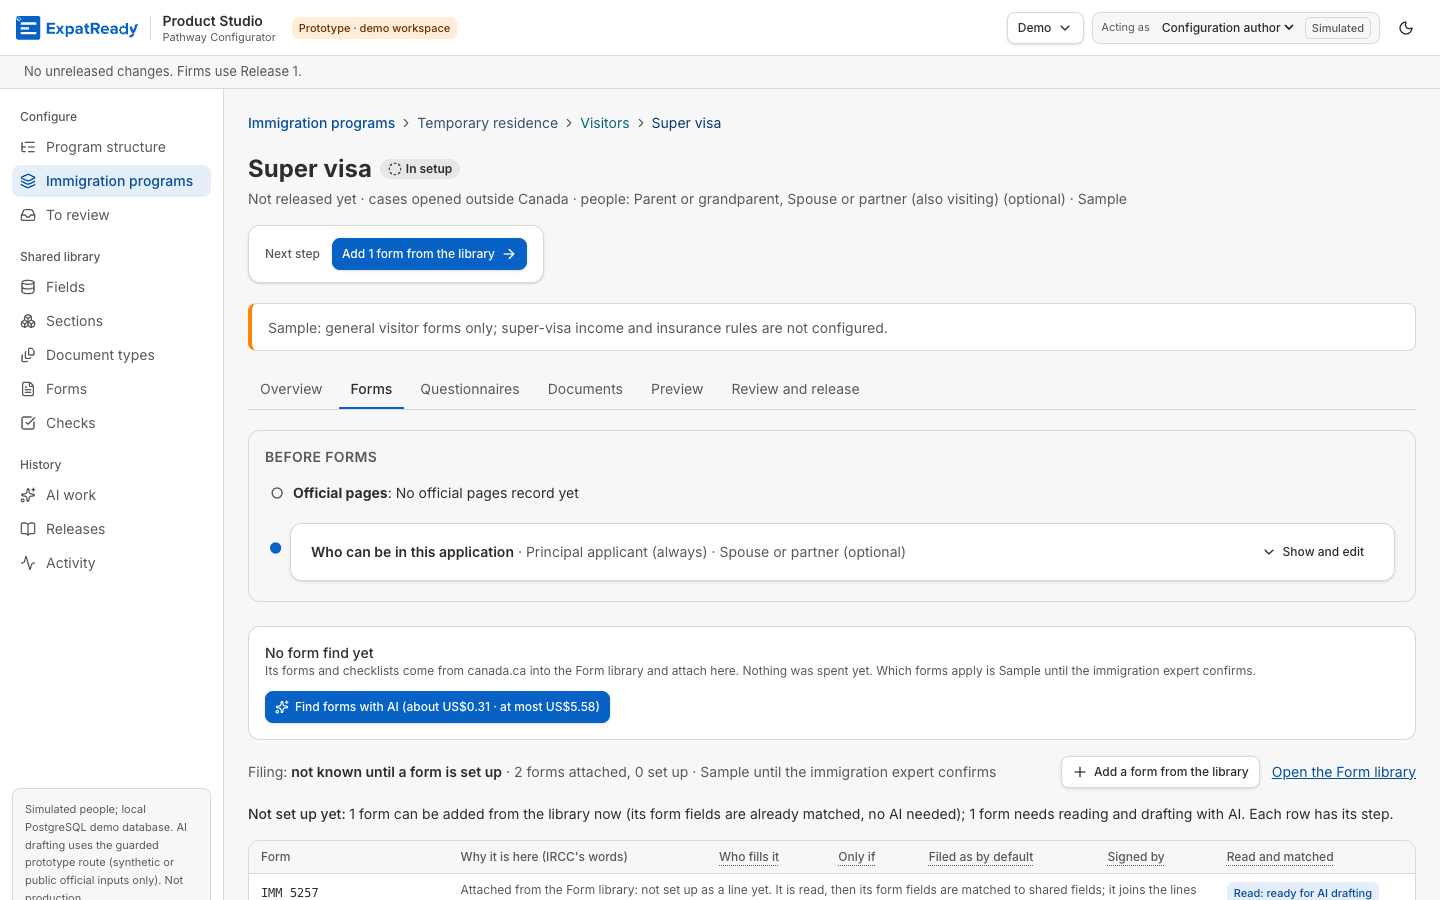
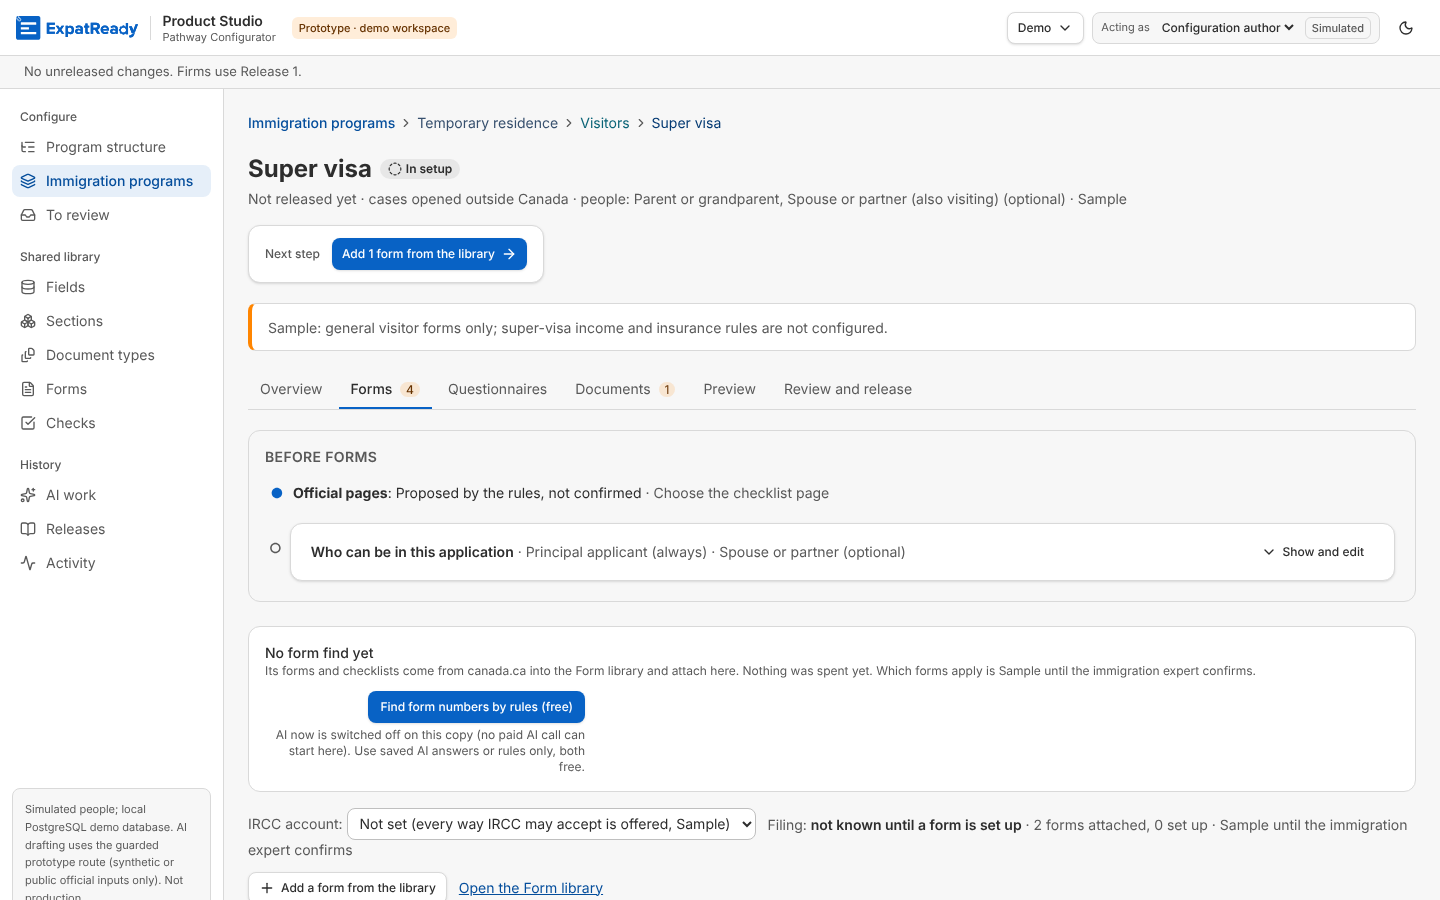
screens F1 X1 (setup checklist slice C3): the Overview's setup strip replaces 'Missing before firms can use it'; the people card leaves the Overview (P-161 (2)); one itemHref for the engine's next.href and the strip; new check_x1_overview_strip_browser; old-Overview steps moved to the strip
Claude-Session: https://claude.ai/code/session_01Ln6TiTg8pQKbvdPZLnXyEe

diff --git a/ai-workers/problem-1-pathway-setup-and-form-filling/prototype/studio/web/src/pages/workspace/overview.tsx b/ai-workers/problem-1-pathway-setup-and-form-filling/prototype/studio/web/src/pages/workspace/overview.tsx
@@ -1,39 +1,28 @@
 // S5 Overview (P-118 Q5, walkthrough v2 S5): it only reports. Status and next step sit in the page header; here the
-// "Missing before firms can use it" list (each line links to the tab where it is fixed), four counts in words, a
-// read-only summary of who can be in the application, and released versions in one line. No add or edit control.
+// setup strip (X1 slice C3: five steps, each with its open items as links to where they are done), four counts in
+// words, and released versions in one line. Who can be in the application sits in "Before forms" on Forms only
+// (P-161 (2)). No add or edit control.
 import * as React from "react";
 import { Link } from "react-router-dom";
-import { sharedStep, type CombinationSummary, type CombinationView, type MissingItem } from "../../../../contracts/programs";
+import { type CombinationSummary, type CombinationView } from "../../../../contracts/programs";
+import { SetupStrip } from "@/components/setup-strip";
 import { Stat } from "@/components/ui/controls";
 import { fmtWhen } from "@/components/status";
-import { cn } from "@/lib/utils";
-
-/** The tab where each missing item is fixed (BR-2). */
-const FIX_TAB: Record<MissingItem["code"], [string, string]> = {
-  no_forms: ["forms", "Forms"], form_without_edition: ["forms", "Forms"], not_started: ["forms", "Forms"], filing_problem: ["forms", "Forms"],
-  role_without_questions: ["questionnaires", "Questionnaires"], rule_problem: ["review", "Review and release"],
-};
 
 export function OverviewTab({ d, sum, show }: { d: CombinationView; sum: CombinationSummary | undefined; show: string | null }) {
   const id = d.combination.id;
   const row = sum?.row;
-  const missing = row && row.status !== "READY" ? row.missing : [];
   const k = d.draft.counts;
   const errors = d.draft.problems.filter((p) => p.level === "error").length;
   const warnings = d.draft.problems.length - errors;
-  const missingRef = React.useRef<HTMLElement>(null);
-  React.useEffect(() => { if (show === "missing") { missingRef.current?.scrollIntoView({ block: "center" }); missingRef.current?.focus({ preventScroll: true }); } }, [show, !!sum]);
-  const people = d.combination.participants as { role: string; label: string; min: number; max: number; applies?: boolean }[];
+  const stripRef = React.useRef<HTMLElement>(null);
+  React.useEffect(() => { if (show === "missing") { stripRef.current?.scrollIntoView({ block: "center" }); stripRef.current?.focus({ preventScroll: true }); } }, [show, !!sum?.setup]);
   const last = d.releases[0];
   return (
     <div className="space-y-5" data-overview>
-      {missing.length ? (
-        <section ref={missingRef} tabIndex={-1} aria-labelledby="ov-missing" className={cn("rounded-xl border border-danger/30 bg-danger/5 p-4 outline-none", show === "missing" && "ring-[3px] ring-danger/30")}>
-          <h2 id="ov-missing" className="font-semibold">{row?.release ? `Why firms cannot use it (${missing.length})` : `Missing before firms can use it (${missing.length})`}</h2>
-          <ul className="mt-2 space-y-1 text-sm">{missing.map((m, i) => { const [tab, name] = FIX_TAB[m.code] ?? ["forms", "Forms"]; return <li key={i} className="flex gap-2"><span aria-hidden className="mt-1.5 size-1.5 shrink-0 rounded-full bg-danger" /><Link className="hover:underline" to={`/c/${id}/${tab}`} title={`Fixed on the ${name} tab`}>{m.text}</Link></li>; })}</ul>
-          {sharedStep(missing) ? <p className="mt-2 text-sm" data-shared-step>Next step for all of these: <b className="font-semibold">{sharedStep(missing)}</b>.</p> : null}
-        </section>
-      ) : null}
+      {/* X1 slice C3: the setup strip replaces "Missing before firms can use it"; ?show=missing (the header's "See n
+          missing") lands on it. */}
+      {sum?.setup ? <SetupStrip id={id} setup={sum.setup} landRef={stripRef} /> : null}
       <div className="grid grid-cols-2 gap-3 md:grid-cols-4">
         <Stat label="Forms" value={k.forms} sub={<>{k.map_boxes} form field{k.map_boxes === 1 ? "" : "s"} matched to shared fields · <Link className="text-text-link underline" to={`/c/${id}/forms`}>see them</Link></>} />
         <Stat label="Questions" value={row?.counts?.questions ?? 0} sub={`questions across all people (each person role counted) · ${k.sections} sections`} />
@@ -42,11 +31,6 @@ export function OverviewTab({ d, sum, show }: { d: CombinationView; sum: Combina
         <Stat label="Rules and checks" value={`${k.rules} rule${k.rules === 1 ? "" : "s"} · ${k.checks} check${k.checks === 1 ? "" : "s"}`} tone={errors ? "danger" : undefined}
           sub={errors || warnings ? <Link className="text-text-link underline" to={`/c/${id}/review`}>{errors ? `${errors} problem${errors === 1 ? "" : "s"} to fix` : `${warnings} warning${warnings === 1 ? "" : "s"}`}: see them</Link> : "no problems"} />
       </div>
-      <section className="rounded-xl border border-border bg-surface-raised p-5 shadow-sm" aria-labelledby="ov-people" data-overview-people>
-        <div className="flex flex-wrap items-center justify-between gap-2"><h2 id="ov-people" className="font-semibold">Who can be in this application</h2><Link className="text-sm text-text-link underline" to={`/c/${id}/forms?focus=people%3Acard`}>Change on Forms</Link></div>
-        <ul className="mt-2 flex flex-wrap gap-2 text-sm">{people.filter((p) => p.max > 0).map((p) => <li key={p.role} className="rounded-full border border-border px-3 py-1">{p.label} · {p.min === p.max ? p.min : `${p.min} to ${p.max}`}{p.applies !== false ? " · applicant" : ""}</li>)}</ul>
-        <p className="mt-2 text-xs text-text-muted">Each person marked as applicant gets their own forms, questions and documents. Numbers Sample until the immigration expert confirms.</p>
-      </section>
       <p className="text-sm text-text-muted" data-releases>{last ? <>Released versions: <b className="font-semibold text-text">Release {last.release}</b>, {fmtWhen(last.released_at)}, approved by {last.approver}{d.releases.length > 1 ? ` · ${d.releases.length - 1} earlier` : ""} · <Link className="text-text-link underline" to={`/c/${id}/review`}>Review and release</Link></> : "Nothing released yet. Case work only ever uses a released version; drafts are previews."}</p>
     </div>
   );

diff --git a/ai-workers/problem-1-pathway-setup-and-form-filling/prototype/studio/web/src/components/setup-strip.tsx b/ai-workers/problem-1-pathway-setup-and-form-filling/prototype/studio/web/src/components/setup-strip.tsx
@@ -1,0 +1,66 @@
+// X1, W1 setup checklist slice C3 (concept v4 §7 "Overview", board v3 §5): the Overview's setup strip. Five rows, one
+// per step, read from the summary's checklist and never recounted (concept §8): mark, step, its one-line summary with
+// who confirmed it on which tier, and its open items as links to where each is done (`itemHref`, the same place the
+// tab badges count it). It only reports (P-118 Q5): no button here. A step after the current one says "After <step>"
+// (board v3) but its items stay links in a quieter colour: steps 1 and 2 cannot be confirmed on a screen yet (forms
+// F2), so hiding later links would leave the author no way to Forms from here.
+import * as React from "react";
+import { Link } from "react-router-dom";
+import { itemHref, STEP_KEYS, tabOfFocus, type SetupChecklist, type Step, type ViewerChecklist } from "../../../contracts/setup-checklist";
+import { cn } from "@/lib/utils";
+
+const TAB_NAME: Record<string, string> = { forms: "Forms", documents: "Documents", questionnaires: "Questionnaires", review: "Review and release" };
+/** The board's small line under a step's name. */
+const STEP_HINT: Partial<Record<Step["key"], string>> = { pages: "IRCC's apply page and checklist", questions_documents: "documents first, then questions" };
+/** Where "See on …" lands for a done step (the step's own place on its tab). */
+const SEE_FOCUS: Partial<Record<Step["key"], string>> = { pages: "pages:record", people: "people:card" };
+type Mark = Step["state"];
+const MARK: Record<Mark, { sign: string; word: string; cls: string }> = {
+  done: { sign: "✓", word: "Done", cls: "border-primary bg-primary text-white" },
+  next: { sign: "●", word: "Next", cls: "border-2 border-primary text-primary" },
+  todo: { sign: "○", word: "To do", cls: "border-border-strong text-text-muted" },
+  ai: { sign: "◐", word: "AI at work", cls: "border-violet-300 bg-violet-50 text-violet-700" },
+  waiting: { sign: "⧗", word: "Waiting for someone else", cls: "border-warn/60 bg-warn/10 text-text-warn" },
+};
+export const STRIP_TIP = "Five steps, worked out from what is set up now. ✓ done · ● next · ◐ AI at work · ⧗ waiting for someone else.";
+const TIER_WORDS = { author: "the configuration author · sure", expert: "the immigration expert · not sure" } as const;
+
+export function SetupStrip({ id, setup, landRef }: { id: string; setup: SetupChecklist | ViewerChecklist; landRef?: React.Ref<HTMLElement> }) {
+  const viewer = "viewer" in setup ? setup.viewer : null;
+  if (setup.chip.status === "RETIRED") return <p className="text-sm text-text-muted" data-setup-strip="retired">{setup.bar.text}. Nothing is set up on a retired combination.</p>;
+  const current = setup.current;
+  return (
+    <section ref={landRef} tabIndex={-1} aria-labelledby="ov-steps" className="overflow-hidden rounded-xl border border-border bg-surface-raised shadow-sm outline-none" data-setup-strip>
+      <h2 id="ov-steps" className="flex flex-wrap items-baseline justify-between gap-2 border-b border-border px-4 py-3 font-semibold">
+        <span>Setup steps · {setup.bar.done} of 5 done{setup.chip.status === "LIVE" ? " · Live" : ""}</span>
+        <span className="text-xs font-normal text-text-muted" title={STRIP_TIP}>Worked out from what is set up now</span>
+      </h2>
+      <ol>
+        {setup.steps.map((s, n) => {
+          // The viewer overlay (§5): the current step whose first item is not this person's reads ⧗ waiting.
+          const mark: Mark = s.state === "next" && viewer && !viewer.filled && s.key === setup.next?.step && setup.next.item.kind !== "view_ai" ? "waiting" : s.state;
+          const later = !!current && STEP_KEYS.indexOf(s.key) > STEP_KEYS.indexOf(current) && s.state !== "done";
+          const confirmed = s.confirmed && s.key !== "pages" ? ` · confirmed by ${TIER_WORDS[s.confirmed.as]}` : "";
+          return (
+            <li key={s.key} data-step-row={s.key} data-mark={mark} className={cn("grid grid-cols-[1.75rem_minmax(0,1fr)] items-center gap-x-3 gap-y-1 border-b border-border px-4 py-2.5 last:border-b-0 md:grid-cols-[2rem_14rem_minmax(0,1fr)_minmax(0,18rem)]", mark === "next" || mark === "waiting" ? "bg-primary/5" : "")}>
+              <span className={cn("inline-flex size-6 items-center justify-center rounded-full border text-xs font-bold", MARK[mark].cls)} aria-hidden>{MARK[mark].sign}</span>
+              <span className="font-semibold"><span className="sr-only">Step {n + 1}, {MARK[mark].word}: </span>{s.label}{STEP_HINT[s.key] ? <small className="block text-xs font-normal text-text-muted">{STEP_HINT[s.key]}</small> : null}</span>
+              <span className="col-start-2 text-sm text-text-muted md:col-start-auto" data-step-summary>{s.summary}{confirmed}{mark === "waiting" && viewer?.nextLine ? <span className="block text-text-warn">{viewer.nextLine}</span> : null}</span>
+              <span className="col-start-2 text-sm [overflow-wrap:anywhere] md:col-start-auto" data-step-open>
+                {s.state === "done"
+                  ? <Link className="font-medium text-text-link underline" to={`/c/${id}/${s.tab}${SEE_FOCUS[s.key] ? `?focus=${encodeURIComponent(SEE_FOCUS[s.key]!)}` : ""}`}>See on {TAB_NAME[s.tab]}</Link>
+                  : s.open.length
+                    ? <>{s.open.map((i, k) => {
+                        // data-tab: the tab whose badge counts this item (none for release items), so a check can sum them.
+                        const attrs = { "data-open-item": i.focus, "data-count": i.count, "data-tab": tabOfFocus(i.focus, s.tab) ?? "" };
+                        return <React.Fragment key={`${i.focus}-${k}`}>{k ? " · " : null}<Link className={cn("underline", later ? "text-text-muted" : "font-medium text-text-link")} to={itemHref(id, s.key, s.tab, i)} {...attrs}>{i.text}</Link></React.Fragment>;
+                      })}{later ? <span className="block text-xs text-text-muted">After {setup.steps[n - 1].label}</span> : null}</>
+                    : <span className="text-text-muted">{later ? `After ${setup.steps[n - 1].label}` : "Nothing to do"}</span>}
+              </span>
+            </li>
+          );
+        })}
+      </ol>
+    </section>
+  );
+}

diff --git a/ai-workers/problem-1-pathway-setup-and-form-filling/prototype/studio/engine/setup-checklist.ts b/ai-workers/problem-1-pathway-setup-and-form-filling/prototype/studio/engine/setup-checklist.ts
@@ -1,7 +1,7 @@
 // W1 setup checklist (P-157, P-161, P-176, P-180; concept v4 §4–§8), pure (no I/O): one checklist per combination,
 // worked out from data on every read, never stored. setupChecklistOf is the same for every viewer (the API caches it per
 // combination); forViewer adds who must act (the duty and tier table of §5), which the server's 403s read too.
-import { STEP_KEYS, STEP_LABEL, STEP_TAB, type ChipStatus, type Counts, type ItemKind, type OpenItem, type SetupChecklist, type Step, type StepKey, type Tier, type ViewerOverlay } from "../contracts/setup-checklist.ts";
+import { itemHref, STEP_KEYS, STEP_LABEL, STEP_TAB, type ChipStatus, type Counts, type ItemKind, type OpenItem, type SetupChecklist, type Step, type StepKey, type Tier, type ViewerOverlay } from "../contracts/setup-checklist.ts";
 import { PROPOSAL_KINDS, type ProposalKind } from "../contracts/proposal-item.ts";
 
 /** Validator `where` → the step whose open item it is (concept §6). Every `where` literal in engine/ has a row; any other
@@ -174,8 +174,7 @@ export function setupChecklistOf(s: SetupInput, key = ""): SetupChecklist {
   const chipStatus: ChipStatus = s.retired ? "RETIRED" : !s.combinationId ? "NOT_STARTED" : notReady ? "NOT_READY" : s.release ? "LIVE" : "IN_PROGRESS";
   const first = nextStep ? open[nextStep][0] : null;
   const id = s.combinationId ?? "";
-  const hrefOf = (st: StepKey, i: OpenItem) => i.focus.startsWith("review:") && i.kind === "review_proposals" ? `/review/proposals?c=${id}&step=${STEP_KEYS.indexOf(st) + 1}`
-    : i.kind === "view_ai" ? `/c/${id}/jobs` : `/c/${id}/${steps[STEP_KEYS.indexOf(st)].tab}?focus=${encodeURIComponent(i.focus)}`;
+  const hrefOf = (st: StepKey, i: OpenItem) => itemHref(id, st, steps[STEP_KEYS.indexOf(st)].tab, i);
   return {
     combinationId: s.combinationId,
     chip: { status: chipStatus, release: s.release?.number ?? null },

diff --git a/ai-workers/problem-1-pathway-setup-and-form-filling/prototype/studio/contracts/setup-checklist.ts b/ai-workers/problem-1-pathway-setup-and-form-filling/prototype/studio/contracts/setup-checklist.ts
@@ -115,3 +115,11 @@ export function tabCounts(setup: { steps: { tab?: string; open: { focus: string;
   for (const s of setup?.steps ?? []) for (const i of s.open) { const t = tabOfFocus(i.focus, s.tab); if (t) out[t] += i.count; }
   return out;
 }
+/** X1 slice C3: where an open item's link goes, one definition for the engine's `next.href` and the Overview strip.
+ *  A proposal opens the review queue filtered to the combination and step (F4), AI progress the jobs page, anything
+ *  else lands on its place (`?focus=`) on the tab that holds it (`tabOfFocus`; the step's own tab otherwise). */
+export function itemHref(id: string, step: StepKey, stepTab: string, i: Pick<OpenItem, "kind" | "focus">): string {
+  if (i.kind === "review_proposals" && i.focus.startsWith("review:")) return `/review/proposals?c=${id}&step=${STEP_KEYS.indexOf(step) + 1}`;
+  if (i.kind === "view_ai") return `/c/${id}/jobs`;
+  return `/c/${id}/${tabOfFocus(i.focus, stepTab) ?? stepTab}?focus=${encodeURIComponent(i.focus)}`;
+}

diff --git a/ai-workers/problem-1-pathway-setup-and-form-filling/product/screens/W1-setup-checklist/plan.md b/ai-workers/problem-1-pathway-setup-and-form-filling/product/screens/W1-setup-checklist/plan.md
@@ -94,3 +94,35 @@ Three Minors from the review of PR #108, each with a pass and a fail test:
 * **(b) Submit for review was offered while Forms or Documents were still open** (`engine/setup-checklist.ts`), and the submit endpoint refuses it then. Submit is now offered only when Forms and Questions and documents have nothing open. Official pages and people are not gated, because no screen confirms them yet (P-176 Q1); gating them would hide Submit on every combination. `check_setup_checklist`: two steps.
 * **(c) Resume pointed to `/review?c=…&step=…`, whose page reads neither.** The link is now `/review/proposals?c=…&step=…`. `GET /review/proposals` takes `c` and `step` (contract `ProposalsQuery`) and opens the oldest group holding that combination's proposals for that step: its own group, or its forms' edition groups. With nothing waiting, no group is chosen (200), and a step outside 1–5 is a 400. The page passes them on and keeps the chosen group in the URL. `check_setup_checklist`: the href step changed, plus two API steps.
 
+
+## Slice C3: the Overview strip (1 Nov, X1, branch `claude/funny-mccarthy-w2r441`, stacked on C2 in #206)
+Concept v4 §7 "Overview" and board v3 §5. The strip **replaces "Missing before firms can use it"**, and the people card **leaves the Overview** (P-161 (2); people sit in "Before forms" on Forms).
+* `web/src/components/setup-strip.tsx`: "Setup steps · n of 5 done" (· Live once released), with the board's tooltip. Each of the five rows shows the mark (✓ ● ○ ◐ ⧗, also in words for screen readers), the step and its one-line summary from the checklist (never recounted), plus the tier when people are confirmed. It then shows its open items as links.
+  * A done step says "See on Forms", "See on Documents" or "See on Review and release".
+  * A step after the current one says "After <the step before>".
+  * If the current step's first item is not the viewer's to act on (§5 overlay), its mark reads ⧗, with the overlay's "Waiting for the immigration expert: …".
+  * Retired: one line, no rows.
+* **One definition of a link:** `contracts/setup-checklist.ts` `itemHref(id, step, stepTab, item)`. The engine's `next.href` and the strip both use it. An item lands on the tab that `tabOfFocus` names, the tab whose badge counts it, so a questions problem in step 4 goes to Questionnaires even when the step's tab is Documents.
+* `?show=missing`, the header's old "See n missing" address, now lands on the strip with focus.
+* **Deviation from board v3:**
+  * The board shows a later step with only "After Forms" and no links.
+  * Here, a later step's items stay links, in the muted colour, under the same "After …" line.
+  * Why: steps 1 and 2 cannot be confirmed on any screen yet. The Confirm and Choose controls for official pages come with forms F2. Hiding the later links would leave the author no way from the Overview to "Add 1 form found".
+  * Revisit when F2 lands.
+* **Not in this slice:** the header's "Next step" box. The concept says the strip replaces it too. But today it runs the old next action ("Add 1 form from the library") with its dialogs, and the checklist's first item ("Confirm the checklist page") has no control yet. Swapping it now would leave the author stuck, so it waits for forms F2 (question in the PR).
+* Tests: new `check_x1_overview_strip_browser.cjs`, with a pass and a fail per rule:
+  * `itemHref`'s three rules;
+  * the five rows and marks equal the checklist;
+  * the old list and the people card are gone;
+  * every item is linked where the engine sends it;
+  * the badges equal the strip, and a tab with nothing open has no badge;
+  * Enter lands on Forms and on Documents;
+  * `?show=missing` lands on the strip;
+  * ⧗ for the author and ● for the expert on Super visa;
+  * Live done rows;
+  * no sideways scroll at 400 px;
+  * axe on three states.
+  
+  The tests reading the old Overview are moved to the strip: `check_screen01_browser` (items 1 and F2), `check_s5_slice1_browser` (BR-2) and `check_w1_before_forms_browser` (the people line).
+
+Screenshots: `screens/F1-setup/screenshots/x1-strip/` shows the author, waiting (the author on Super visa), Live, and 400 px.
